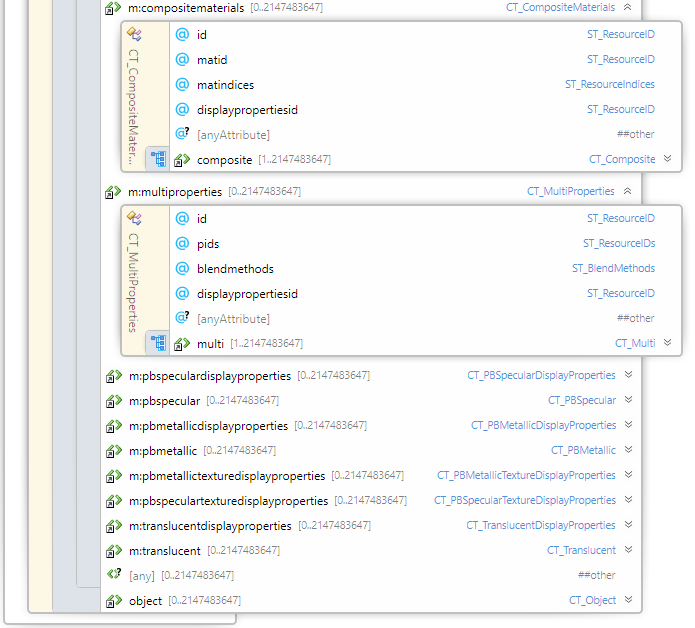
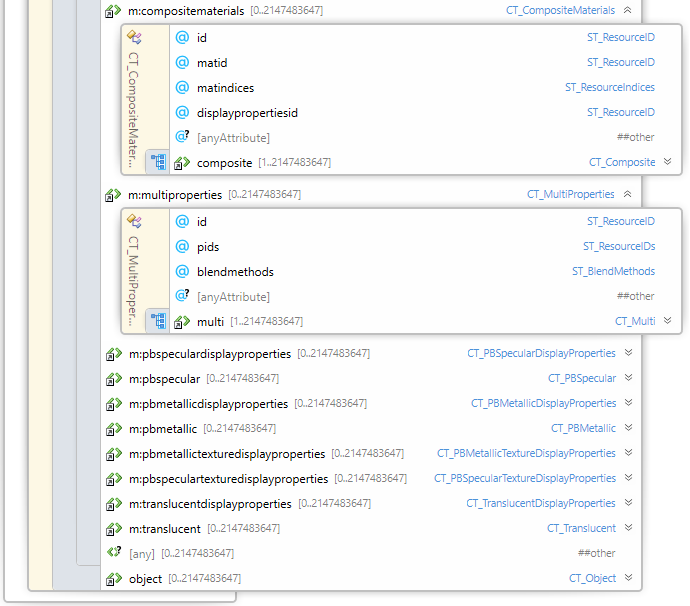
Remove displaypropertiesid from multiproperties
Multiproperties displayproperties should come from each individual layer

Changed region(s): [[0.1217, 0.0, 1.0, 1.0], [0.1217, 0.9208, 0.1522, 0.9505]]

diff --git a/3MF Materials Extension.md b/3MF Materials Extension.md
@@ -296,7 +296,6 @@ Element **\<multiproperties>**
 | id | **ST_ResourceID** | required |  | Unique ID among all resources (which could include elements from extensions to the spec). |
 | pids | **ST_ResourceID** | required |  | A space-delimited list of ST_ResourceID values representing the property group of each constituent |
 | blendmethods | **ST_BlendMethods** | optional | mix | Defines the list of equation(s) to use when blending each layer with the previous layer: “mix” or “multiply”. One value should be specified for each layer minus the first layer which is ignored. |
-| displaypropertiesid | **ST_ResourceID** | optional | | Reference to a \<displayproperties> element providing additional information about how to display the material on a device display |
 | @anyAttribute | | | | |
 
 ##### Elements
@@ -343,8 +342,6 @@ For the Blending operations the alpha values are supposed to be between 0 and 1.
 Blending operations should be performed in linear RGB space. Thus, the inverse color component transfer function needs to be applied to each component of the source and destination color. In Computer Graphics, blending operations are typically performed in linear RGB space.
 
 >**Note:** Users coming from a Graphic Arts background who prefer color blending to be performed in sRGB or any other color space are advised to perform the composition in a 2D imaging application and then apply the blended 2D textures to an object.
-
-The displaypropertiesid attribute references a \<displayproperties> group containing additional properties that describe how best to display the material when previewing a mesh with this material on a device display. For more information, refer to [Chapter 7. Display Properties Overview](#chapter-7-display-properties-overview).
 
 Let us consider the following example:
 
@@ -832,7 +829,6 @@ See [the 3MF Core Specification glossary](https://github.com/3MFConsortium/spec_
 		<xs:attribute name="id" type="ST_ResourceID" use="required"/>
 		<xs:attribute name="pids" type="ST_ResourceIDs" use="required"/>
 		<xs:attribute name="blendmethods" type="ST_BlendMethods" use="optional" default="mix"/>
-		<xs:attribute name="displaypropertiesid" type="ST_ResourceID" use="optional"/>
 		<xs:anyAttribute namespace="##other" processContents="lax"/>
 	</xs:complexType>
 	<xs:complexType name="CT_Multi">
